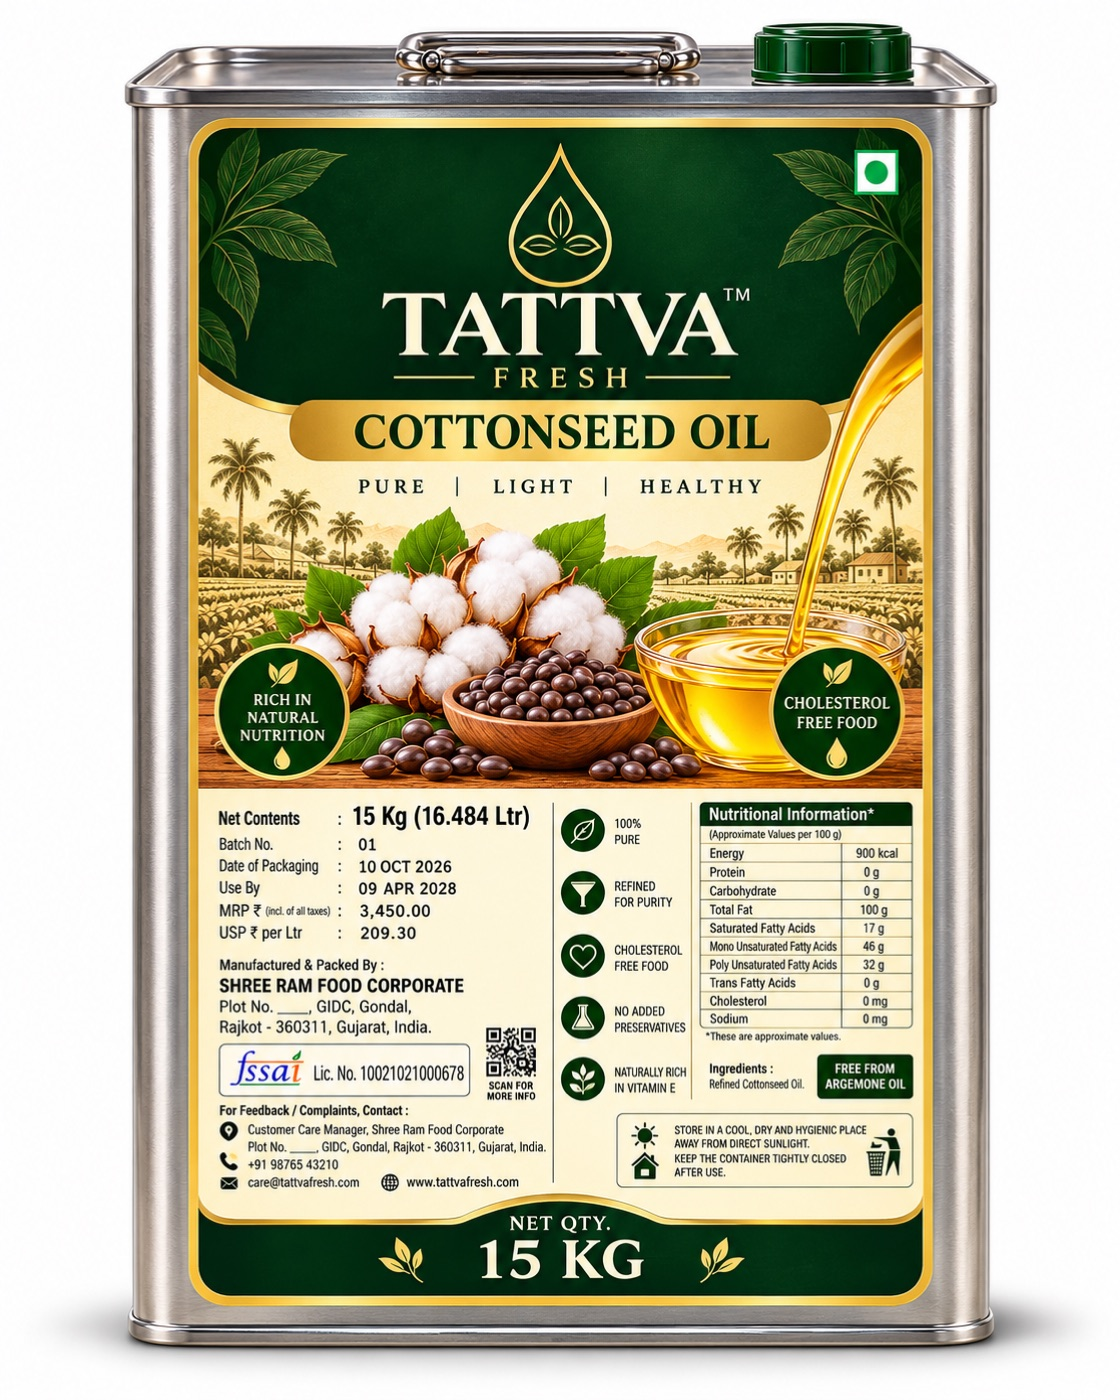
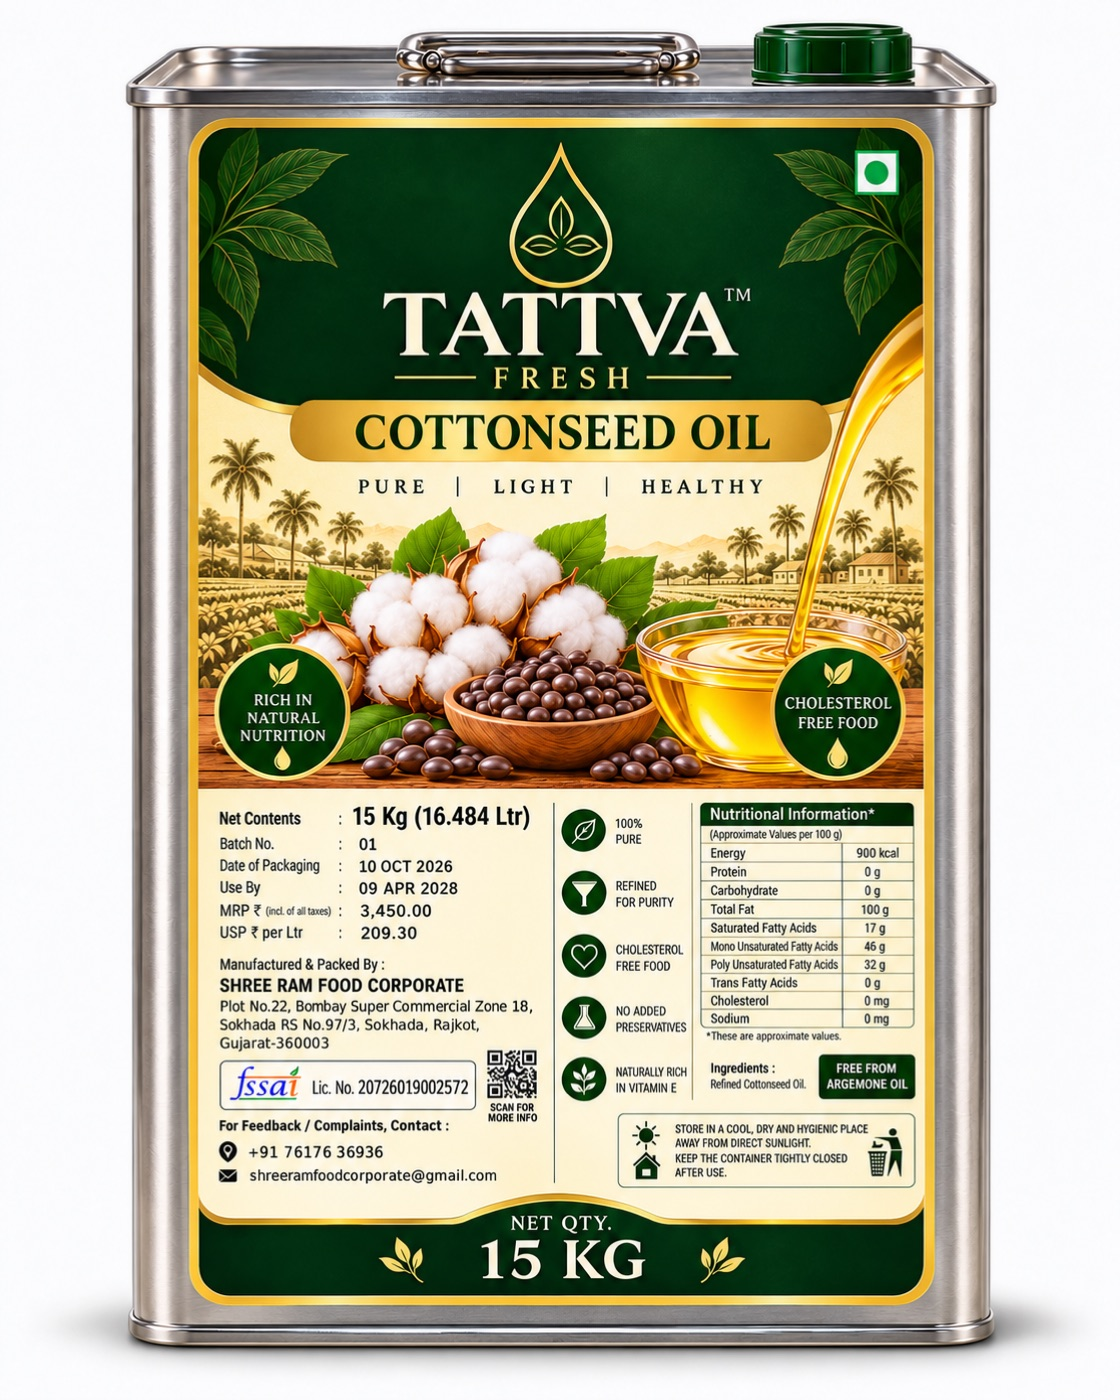
Update pack photos with final labels; use real FSSAI licence number

diff --git a/lib/site-config.ts b/lib/site-config.ts
@@ -205,7 +205,7 @@ export const siteConfig = {
     gu: "સોમ–રવિ, સવારે 9:00 – રાત્રે 10:00",
   } as Localized<string>,
   certifications: {
-    fssai: "10012345678901", // TODO: confirm, this looks like a sample number
+    fssai: "20726019002572", // as printed on the pack labels
     gst: "24AGBFS0164J1Z3",
     others: [] as string[],
   },
